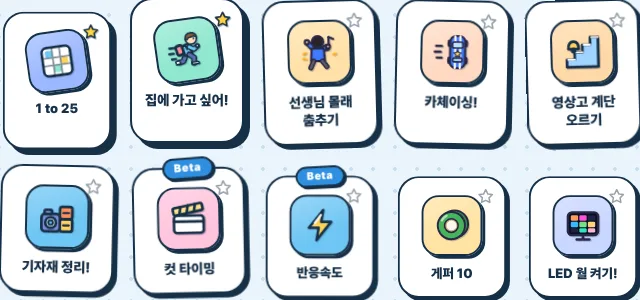
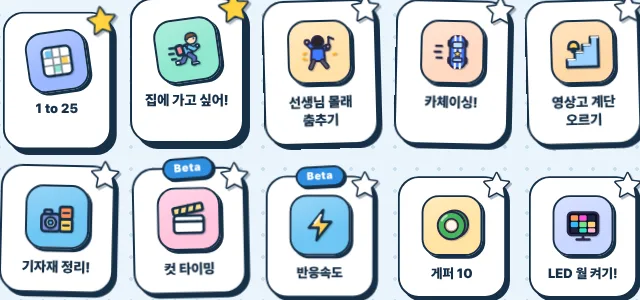
게임 즐겨찾기 별 크게: 아이콘 모서리에 걸친 큰 별(흰 바탕·진한 테두리)
2026-11-02 08:47 하율 "별 더 크게 해줘. 모서리에서 잘 보이게"

Claude-Session: https://claude.ai/code/session_017hY1GtE6xbWkVKrnyp3yTN

diff --git a/public/css/style.css b/public/css/style.css
@@ -6793,15 +6793,15 @@ html.art-idle .att-sprite :is(.an-rec,.an-reel,.an-wave,.an-pop,.an-tail,.an-fla
   .pside .pg-grid{grid-template-columns:repeat(2,minmax(0,1fr))}
 }
 @media (min-width:1200px){#v-me > .vhead,#v-u > .vhead,#v-me .soc,#v-u .soc{max-width:1060px}}   /* 2026-10-31: 오른쪽 기록 칸 3열 + 왼쪽 명판·1등 패 한 줄이 들어갈 폭 */
-/* 게임 즐겨찾기 별(2026-11-02, js/gfav.js) — 게임 아이콘 오른쪽 위. 빈 별 → 누르면 노란 별 + 앞으로 */
+/* 게임 즐겨찾기 별(2026-11-02, js/gfav.js) — 게임 아이콘 오른쪽 위 모서리에 걸친 큰 별(08:47 하율 "더 크게, 모서리에서 잘 보이게"). 빈 별 → 누르면 노란 별 + 앞으로 */
 .apps .gapp{position:relative}
-.gfav{position:absolute;top:6px;right:6px;z-index:3;width:26px;height:26px;display:grid;place-items:center;border-radius:50%;cursor:pointer;-webkit-tap-highlight-color:transparent}
-.gfav svg{width:19px;height:19px;fill:none;stroke:color-mix(in srgb,var(--text) 45%,transparent);stroke-width:2;stroke-linejoin:round;transition:fill .15s,stroke .15s}
-@media (hover:hover){.gfav:hover svg{stroke:var(--text)}}
-.gapp.faved .gfav svg{fill:#ffd23f;stroke:var(--ink,#173048);filter:drop-shadow(1px 1px 0 rgba(23,48,72,.35))}
-.gfav.pop svg{animation:gfavPop .32s cubic-bezier(.3,1.6,.5,1)}
-@keyframes gfavPop{0%{transform:scale(.6)}100%{transform:scale(1)}}
-@media (max-width:560px){.gfav{top:3px;right:3px;width:22px;height:22px}.gfav svg{width:16px;height:16px}}
+.gfav{position:absolute;top:-13px;right:-13px;z-index:3;width:42px;height:42px;display:grid;place-items:center;border-radius:50%;cursor:pointer;-webkit-tap-highlight-color:transparent}
+.gfav svg{width:34px;height:34px;overflow:visible;fill:var(--card,#fff);stroke:var(--ink,#173048);stroke-width:2.2;stroke-linejoin:round;paint-order:stroke;filter:drop-shadow(2px 2px 0 rgba(23,48,72,.35));transition:fill .15s,transform .15s}
+@media (hover:hover){.gfav:hover svg{transform:scale(1.1) rotate(-8deg)}}
+.gapp.faved .gfav svg{fill:#ffd23f}
+.gfav.pop svg{animation:gfavPop .34s cubic-bezier(.3,1.6,.5,1)}
+@keyframes gfavPop{0%{transform:scale(.5) rotate(-30deg)}100%{transform:scale(1)}}
+@media (max-width:560px){.gfav{top:-10px;right:-9px;width:34px;height:34px}.gfav svg{width:27px;height:27px;stroke-width:2.4}}
 @media (prefers-reduced-motion:reduce){.gfav.pop svg{animation:none}}
 
 /* ===== 색감의 신(2026-11-02, js/color.js — 미리보기 color-game) ===== */
